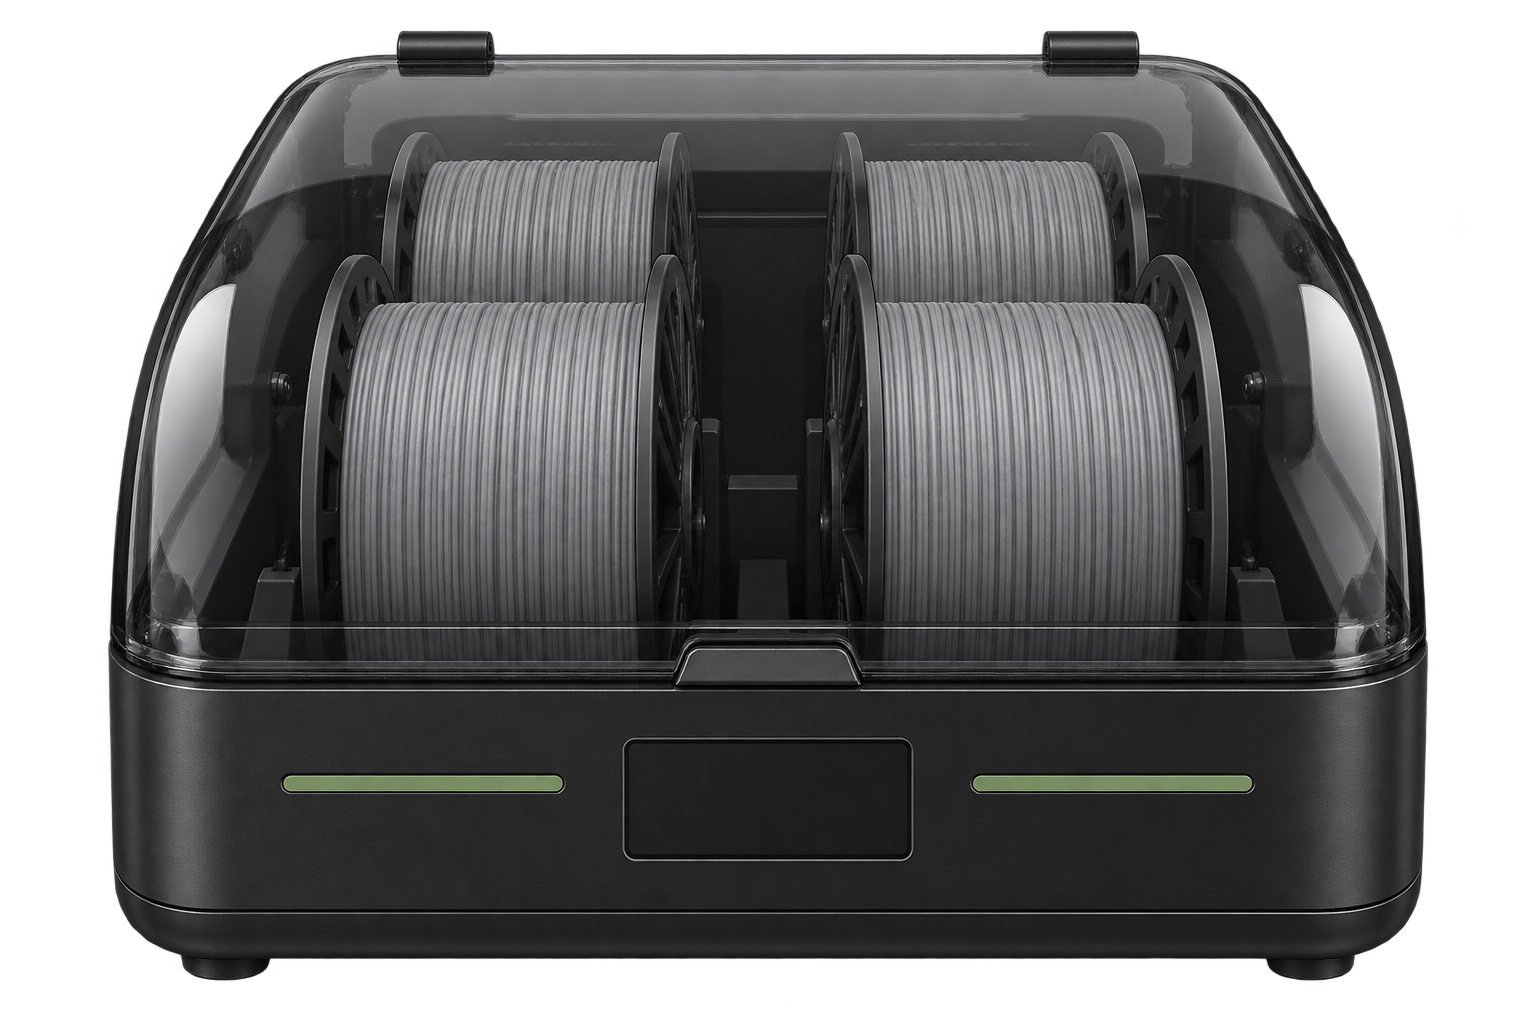
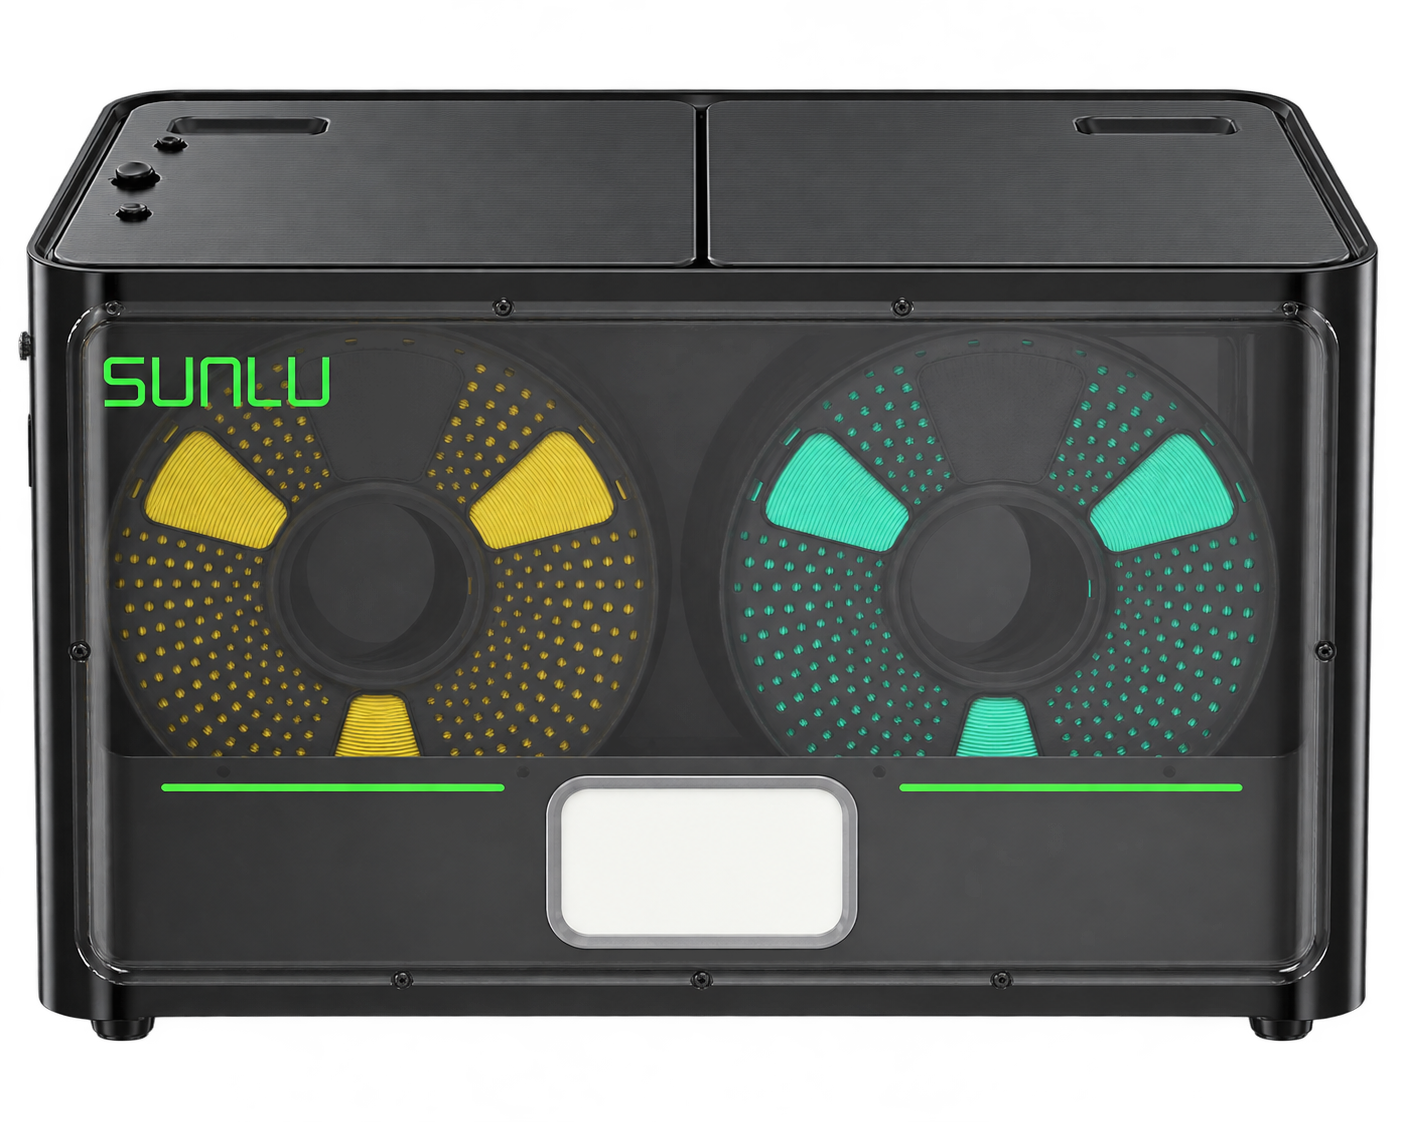
Match compact S4 overlay to official reference and fitted anchors

diff --git a/desktop/src/test/kotlin/com/nozzleitall/desktop/EnvironmentalDashboardRenderTest.kt b/desktop/src/test/kotlin/com/nozzleitall/desktop/EnvironmentalDashboardRenderTest.kt
@@ -16,6 +16,44 @@ import javax.swing.SwingUtilities
 
 /** Offscreen software-rendered fixture, not installed-app/GPU/physical-radio proof. */
 class EnvironmentalDashboardRenderTest {
+    @Test fun packagedArtworkDecodesAndMatchesAndroid() {
+        val bytes = javaClass.classLoader.getResourceAsStream("environment/s4-dryer.png")!!.use { it.readBytes() }
+        assertArrayEquals(bytes, File("../app/src/main/res/drawable-nodpi/s4_dryer.png").readBytes())
+        val image = javax.imageio.ImageIO.read(bytes.inputStream())
+        assertEquals(1402, image.width); assertEquals(1122, image.height)
+        assertTrue(image.colorModel.hasAlpha())
+        assertEquals(image.width.toFloat() / image.height, com.nozzleitall.desktop.screens.s4ArtworkAspect, .0001f)
+    }
+    @Test fun anchorGeometryTracksFittedArtworkAtEveryLayoutBranch() {
+        for (width in listOf(320f, 480f, 640f)) for (scale in listOf(1f, 1.3f, 2f)) {
+            val height = (if (width >= 480 && scale <= 1.2f) 260f else 350f) * scale
+            val rect = com.nozzleitall.desktop.screens.s4ArtworkRect(width, height, 48f, 4f)
+            assertEquals(com.nozzleitall.desktop.screens.s4ArtworkAspect, rect.width / rect.height, .0001f)
+            assertTrue(rect.left >= 48f - .001f && rect.top >= 4f - .001f)
+            com.nozzleitall.desktop.screens.s4ArtworkAnchors.forEach {
+                assertTrue(rect.contains(androidx.compose.ui.geometry.Offset(rect.left + it.x * rect.width, rect.top + it.y * rect.height)))
+            }
+        }
+    }
+    @OptIn(androidx.compose.ui.ExperimentalComposeUiApi::class)
+    @Test fun narrowLightLargeTextPlacementRenders() {
+        val output = File("build/reports/dashboard-narrow-light.png")
+        SwingUtilities.invokeAndWait {
+            val scene = ImageComposeScene(width = 440, height = 1600) {
+                androidx.compose.runtime.CompositionLocalProvider(androidx.compose.ui.platform.LocalDensity provides androidx.compose.ui.unit.Density(1f, 1.5f)) {
+                    NozzleTheme("light") {
+                        com.nozzleitall.desktop.screens.S4EnvironmentOverview(EnvironmentalSensorGroup("S4", emptyList()),
+                            emptyMap(), EnvironmentalDashboardData(), false, false, null) {}
+                    }
+                }
+            }
+            try {
+                scene.render().close()
+                scene.render(1_000_000_000L).use { it.encodeToData()!!.use { data -> output.parentFile.mkdirs(); output.writeBytes(data.bytes) } }
+            } finally { scene.close() }
+        }
+        assertTrue(output.length() > 1000)
+    }
     @OptIn(androidx.compose.ui.ExperimentalComposeUiApi::class)
     @Test fun expandedPlacementStillRendersTheDryer() {
         val bindings = EnvironmentalGroupOverview.corners.mapIndexed { i, _ -> Binding("b$i", "s$i", "fixture-$i", "govee-ble", "H5100") }
@@ -40,9 +78,9 @@ class EnvironmentalDashboardRenderTest {
         var shellPixels = 0
         for (y in 0 until image.height) for (x in 0 until image.width) {
             val c = java.awt.Color(image.getRGB(x, y))
-            if (c.red in 70..220 && kotlin.math.abs(c.red - c.green) < 5 && kotlin.math.abs(c.green - c.blue) < 5) shellPixels++
+            if (c.green > 140 && c.green - c.red > 70 && c.green - c.blue > 50) shellPixels++
         }
-        assertTrue("Expanded placement renders the neutral product artwork", shellPixels > 1000)
+        assertTrue("Official-reference green branding is painted (not gray UI chrome)", shellPixels > 40)
     }
     @Test fun s4PresentationLogicAndGeometryStayIdenticalAcrossPlatforms() {
         fun body(file: File): String {
@@ -91,9 +129,9 @@ class EnvironmentalDashboardRenderTest {
         var shellPixels = 0
         for (y in 100 until 380) for (x in 180 until 760) {
             val c = java.awt.Color(image.getRGB(x, y))
-            if (c.red in 70..220 && kotlin.math.abs(c.red - c.green) < 5 && kotlin.math.abs(c.green - c.blue) < 5) shellPixels++
+            if (c.green > 140 && c.green - c.red > 70 && c.green - c.blue > 50) shellPixels++
         }
-        assertTrue("Default overview renders neutral product artwork", shellPixels > 1000)
+        assertTrue("Default overview paints distinctive green branding", shellPixels > 40)
         for (rgb in listOf(0xB59AFF, 0x35B9C5, 0xFFC66D, 0xFF91B5)) {
             var pixels = 0
             val expected = java.awt.Color(rgb)

diff --git a/app/src/main/java/net/jamesjennison/klippercompanion/environment/S4EnvironmentOverview.kt b/app/src/main/java/net/jamesjennison/klippercompanion/environment/S4EnvironmentOverview.kt
@@ -27,6 +27,18 @@ import java.time.format.DateTimeFormatter
 import java.util.Locale
 
 internal val positionColors = listOf(Color(0xFFB59AFF), Color(0xFF35B9C5), Color(0xFFFFC66D), Color(0xFFFF91B5))
+internal const val s4ArtworkAspect = 1402f / 1122f
+// Matches ContentScale.Fit inside the same padded rectangle, including letterboxing.
+internal fun s4ArtworkRect(width: Float, height: Float, horizontalPadding: Float, verticalPadding: Float): Rect {
+    val availableWidth = (width - 2 * horizontalPadding).coerceAtLeast(0f)
+    val availableHeight = (height - 2 * verticalPadding).coerceAtLeast(0f)
+    val fittedWidth = minOf(availableWidth, availableHeight * s4ArtworkAspect)
+    val fittedHeight = fittedWidth / s4ArtworkAspect
+    return Rect((width - fittedWidth) / 2, (height - fittedHeight) / 2,
+        (width + fittedWidth) / 2, (height + fittedHeight) / 2)
+}
+// Named corner locations on the elevated-front reference, not measured probe coordinates.
+internal val s4ArtworkAnchors = listOf(Offset(.15f, .14f), Offset(.85f, .14f), Offset(.08f, .83f), Offset(.92f, .83f))
 private fun fmt(v: Double?) = v?.let { String.format(Locale.getDefault(), "%.1f", it) } ?: "—"
 private fun stamp(t: Long) = DateTimeFormatter.ofPattern("MMM d HH:mm:ss").withZone(ZoneId.systemDefault()).format(Instant.ofEpochMilli(t))
 
@@ -63,7 +75,7 @@ private fun stamp(t: Long) = DateTimeFormatter.ofPattern("MMM d HH:mm:ss").withZ
                             verticalArrangement = Arrangement.spacedBy(6.dp)) {
                             Label(if (channel == Channel.TEMPERATURE) "Average temperature" else "Average humidity", color = Color(0xFFAEBCC5))
                             Metric("${fmt(stats?.average)} ${channel.unit}", if (channel == Channel.TEMPERATURE) positionColors[0] else positionColors[1])
-                            Label("Range  ${fmt(stats?.minimum)} – ${fmt(stats?.maximum)} ${channel.unit}")
+                            Label("Range  ${fmt(stats?.minimum)} – ${fmt(stats?.maximum)} ${channel.unit}", color = Color.White)
                             Label("Spread  ${fmt(stats?.let { it.maximum - it.minimum })} ${channel.unit}   ·   ${stats?.count ?: 0}/4 positions", color = Color(0xFFAEBCC5))
                         }
                     }
@@ -133,16 +145,16 @@ private fun stamp(t: Long) = DateTimeFormatter.ofPattern("MMM d HH:mm:ss").withZ
 
 @Composable private fun DryerDiagram(positions: Map<String, Binding>, data: EnvironmentalDashboardData,
     reference: Long, historyMode: Boolean, selected: String?, onSelect: (Binding) -> Unit) {
-    // Original scalable cutaway illustration: long S4 shell, clear lid, four reel bays and front control panel.
+    // Official-reference illustration; telemetry stays native, selectable and independent.
     BoxWithConstraints(Modifier.fillMaxWidth()) {
     val fontScale = LocalDensity.current.fontScale.coerceAtLeast(1f)
     val diagramHeight = if (maxWidth >= 480.dp && fontScale <= 1.2f) 260.dp else 350.dp
     Box(Modifier.widthIn(max = 640.dp).fillMaxWidth().height(diagramHeight * fontScale).align(Alignment.Center).testTag("s4-dryer-illustration")) {
         DryerArtwork(Modifier.fillMaxSize().padding(horizontal = 48.dp, vertical = 4.dp))
         Canvas(Modifier.fillMaxSize()) {
-            val anchors = listOf(Offset(.35f, .28f), Offset(.65f, .28f), Offset(.30f, .65f), Offset(.70f, .65f))
-            anchors.forEachIndexed { i, anchor ->
-                val p = Offset(anchor.x * size.width, anchor.y * size.height)
+            val fitted = s4ArtworkRect(size.width, size.height, 48.dp.toPx(), 4.dp.toPx())
+            s4ArtworkAnchors.forEachIndexed { i, anchor ->
+                val p = Offset(fitted.left + anchor.x * fitted.width, fitted.top + anchor.y * fitted.height)
                 val edge = Offset((if (i % 2 == 0) .19f else .81f) * size.width, (if (i < 2) .18f else .70f) * size.height)
                 drawLine(positionColors[i].copy(alpha = .65f), edge, p, 1.dp.toPx())
                 drawCircle(positionColors[i], 3.dp.toPx(), p)

diff --git a/desktop/src/main/kotlin/com/nozzleitall/desktop/screens/S4EnvironmentOverview.kt b/desktop/src/main/kotlin/com/nozzleitall/desktop/screens/S4EnvironmentOverview.kt
@@ -27,6 +27,18 @@ import java.time.format.DateTimeFormatter
 import java.util.Locale
 
 internal val positionColors = listOf(Color(0xFFB59AFF), Color(0xFF35B9C5), Color(0xFFFFC66D), Color(0xFFFF91B5))
+internal const val s4ArtworkAspect = 1402f / 1122f
+// Matches ContentScale.Fit inside the same padded rectangle, including letterboxing.
+internal fun s4ArtworkRect(width: Float, height: Float, horizontalPadding: Float, verticalPadding: Float): Rect {
+    val availableWidth = (width - 2 * horizontalPadding).coerceAtLeast(0f)
+    val availableHeight = (height - 2 * verticalPadding).coerceAtLeast(0f)
+    val fittedWidth = minOf(availableWidth, availableHeight * s4ArtworkAspect)
+    val fittedHeight = fittedWidth / s4ArtworkAspect
+    return Rect((width - fittedWidth) / 2, (height - fittedHeight) / 2,
+        (width + fittedWidth) / 2, (height + fittedHeight) / 2)
+}
+// Named corner locations on the elevated-front reference, not measured probe coordinates.
+internal val s4ArtworkAnchors = listOf(Offset(.15f, .14f), Offset(.85f, .14f), Offset(.08f, .83f), Offset(.92f, .83f))
 private fun fmt(v: Double?) = v?.let { String.format(Locale.getDefault(), "%.1f", it) } ?: "—"
 private fun stamp(t: Long) = DateTimeFormatter.ofPattern("MMM d HH:mm:ss").withZone(ZoneId.systemDefault()).format(Instant.ofEpochMilli(t))
 
@@ -63,7 +75,7 @@ private fun stamp(t: Long) = DateTimeFormatter.ofPattern("MMM d HH:mm:ss").withZ
                             verticalArrangement = Arrangement.spacedBy(6.dp)) {
                             Label(if (channel == Channel.TEMPERATURE) "Average temperature" else "Average humidity", color = Color(0xFFAEBCC5))
                             Metric("${fmt(stats?.average)} ${channel.unit}", if (channel == Channel.TEMPERATURE) positionColors[0] else positionColors[1])
-                            Label("Range  ${fmt(stats?.minimum)} – ${fmt(stats?.maximum)} ${channel.unit}")
+                            Label("Range  ${fmt(stats?.minimum)} – ${fmt(stats?.maximum)} ${channel.unit}", color = Color.White)
                             Label("Spread  ${fmt(stats?.let { it.maximum - it.minimum })} ${channel.unit}   ·   ${stats?.count ?: 0}/4 positions", color = Color(0xFFAEBCC5))
                         }
                     }
@@ -133,16 +145,16 @@ private fun stamp(t: Long) = DateTimeFormatter.ofPattern("MMM d HH:mm:ss").withZ
 
 @Composable private fun DryerDiagram(positions: Map<String, Binding>, data: EnvironmentalDashboardData,
     reference: Long, historyMode: Boolean, selected: String?, onSelect: (Binding) -> Unit) {
-    // Original scalable cutaway illustration: long S4 shell, clear lid, four reel bays and front control panel.
+    // Official-reference illustration; telemetry stays native, selectable and independent.
     BoxWithConstraints(Modifier.fillMaxWidth()) {
     val fontScale = LocalDensity.current.fontScale.coerceAtLeast(1f)
     val diagramHeight = if (maxWidth >= 480.dp && fontScale <= 1.2f) 260.dp else 350.dp
     Box(Modifier.widthIn(max = 640.dp).fillMaxWidth().height(diagramHeight * fontScale).align(Alignment.Center).testTag("s4-dryer-illustration")) {
         DryerArtwork(Modifier.fillMaxSize().padding(horizontal = 48.dp, vertical = 4.dp))
         Canvas(Modifier.fillMaxSize()) {
-            val anchors = listOf(Offset(.35f, .28f), Offset(.65f, .28f), Offset(.30f, .65f), Offset(.70f, .65f))
-            anchors.forEachIndexed { i, anchor ->
-                val p = Offset(anchor.x * size.width, anchor.y * size.height)
+            val fitted = s4ArtworkRect(size.width, size.height, 48.dp.toPx(), 4.dp.toPx())
+            s4ArtworkAnchors.forEachIndexed { i, anchor ->
+                val p = Offset(fitted.left + anchor.x * fitted.width, fitted.top + anchor.y * fitted.height)
                 val edge = Offset((if (i % 2 == 0) .19f else .81f) * size.width, (if (i < 2) .18f else .70f) * size.height)
                 drawLine(positionColors[i].copy(alpha = .65f), edge, p, 1.dp.toPx())
                 drawCircle(positionColors[i], 3.dp.toPx(), p)

diff --git a/desktop/src/main/kotlin/com/nozzleitall/desktop/screens/EnvironmentalPanel.kt b/desktop/src/main/kotlin/com/nozzleitall/desktop/screens/EnvironmentalPanel.kt
@@ -34,10 +34,12 @@ import com.nozzleitall.desktop.environment.DesktopGoveeNames
     var setup by remember { mutableStateOf(false) }
     var details by remember { mutableStateOf<String?>(null) }
     fun action(block: () -> Unit) { if (!busy && !stopping) { busy = true; error = null; scope.launch { try { withContext(Dispatchers.IO) { block() } } catch (e: kotlinx.coroutines.CancellationException) { throw e } catch (e: ChartHistoryException) { error = e.message } catch (e: QualificationUnavailableException) { error = e.message } catch (_: Exception) { error = "Operation failed; data preserved where possible. Check radio/permission/storage and retry explicitly." } finally { busy = false } } } }
+    // Synchronous button callback only. The request must remain outside launch:
+    // a synchronous failure owns busy; otherwise the launched join owns its reset.
     fun start(purpose: Purpose) {
         if (!busy && !stopping) { busy = true; error = null
             try { val work = controller.requestOperationAsync(purpose); scope.launch { try { work.join() } finally { busy = false } } }
-            catch (_: kotlinx.coroutines.CancellationException) { busy = false }
+            catch (_: kotlinx.coroutines.CancellationException) { busy = false; error = "Preparation cancelled — retry explicitly" }
             catch (_: Exception) { busy = false; error = "Preparation unavailable or cancelled — retry explicitly" }
         }
     }

diff --git a/desktop/src/main/resources/environment/S4_ARTWORK.md b/desktop/src/main/resources/environment/S4_ARTWORK.md
@@ -1,0 +1,22 @@
+# S4 artwork provenance
+
+The transparent illustration is generated from the official SUNLU S4 product
+photograph, not a calibrated map or a photograph of the owner's sensors.
+Live labels, values, selection and trends are Compose UI, never baked into it.
+
+Reference page: https://store.sunlu.com/collections/new-collection/products/sunlu-filadryer-s4
+Reference photo: https://store.sunlu.com/cdn/shop/files/S4_869ac763-3bd2-4172-90c9-3ee575eb60a5.jpg?v=1786734140
+Retrieved and visually inspected 2026-10-19.
+
+Built-in image-generation tool; no external credentials used. Final prompt:
+Refine the elevated-front illustration to match the official S4: rectangular dark
+enclosure, flat split top lids, green SUNLU upper-left, two thin green front accent
+lines, centered light control panel, two subtle visible spool faces through the
+smoked front. Both lids closed. Remove invented control icons and all numeric
+readings; leave control panel blank. No dome, no four spools side by side, props,
+labels or badges. Tight framing, genuinely transparent background, no floor or
+external shadow. Professional crisp materials, faithful proportions/silhouette.
+
+1402 x 1122 RGBA. Desktop and Android copies must be byte-identical. Anchor
+coordinates are normalized to this image and transformed through its fitted
+rectangle; they identify named corners, not measured probe locations.
